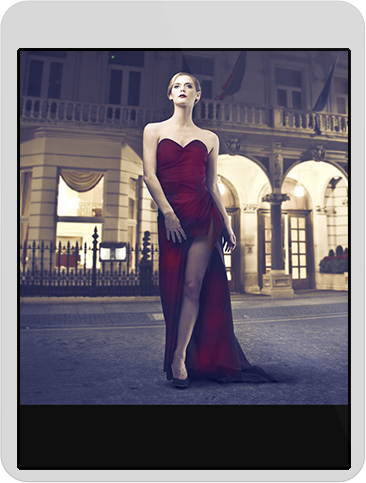
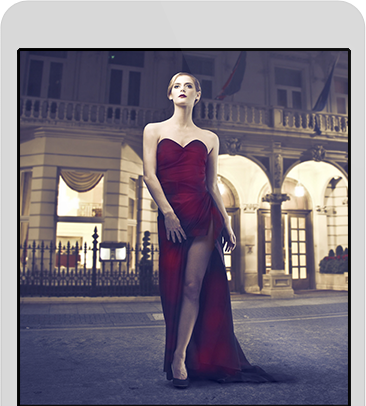
clients - hexagon

diff --git a/src/less/_clients.less b/src/less/_clients.less
@@ -1,0 +1,95 @@
+.clients {
+	height: 652px;
+	padding-top: 90px;
+	padding-bottom: 100px;
+	background-image: 
+	    linear-gradient(to bottom, rgba(0, 0, 0, 0.902) 0px, rgba(0, 0, 0, 0.902) 100%),
+	    url("../img/bg/clients.jpg");
+	background-size: cover;
+	background-repeat: no-repeat;
+	background-position: center;
+	background-color: rgba(0, 0, 0, 0.902);
+	text-align: center;
+}
+
+.reviews {
+	height: 300px;
+	background-color: #6fc;
+}
+
+.review__title {
+  font-family: 'Raleway', sans-serif;
+  font-size: 20px;
+  line-height: 1;
+  font-weight: 500;
+  color: #fff;
+  text-transform: uppercase;
+  margin-bottom: 50px;
+  // text-align: center;
+}
+
+.review__text {
+  font-family: 'Lato', sans-serif;
+  font-size: 16px;
+  line-height: 1.375;
+  color: #a4a4a4;
+  // text-align: center;
+  margin-bottom: 40px;
+}
+
+.review__text p {
+	margin-bottom: 20px;
+}
+
+.review__client-photo {
+	// overflow: hidden;
+}
+
+.hexagon {
+	position: relative;
+	width: 34px;
+	height: 57px;
+	margin: 20px;
+	background-color: #ff0036;
+	border: none;
+	transform: rotate(120deg);
+	margin-right: auto;
+	margin-left: auto;
+	// overflow: hidden;
+	// visibility: hidden;
+
+}
+
+.hexagon-layer-1 {
+	width: 100%;
+	height: 100%;
+	background-color: #ff0036;
+	border: none;
+	transform: rotate(-60deg);
+	// overflow: hidden;
+	// visibility: hidden;
+}
+
+.hexagon-layer-2 {
+	width: 100%;
+	height: 100%;
+	background-color: #ff0036;
+	border: none;
+	transform: rotate(-60deg);
+	// overflow: hidden;
+	// visibility: hidden;
+	
+	background-image: url("../img/clients/amr-srour.jpg");
+	background-size: auto;
+	background-repeat: no-repeat;
+	background-position: center;
+}
+
+// .about-card__icon img {
+//   position: absolute;
+//   top: 50%;
+//   left: 50%;
+//   -webkit-transform: translate(-50%, -50%);
+//   -ms-transform: translate(-50%, -50%);
+//   transform: translate(-50%, -50%);
+// }

diff --git a/src/less/_base.less b/src/less/_base.less
@@ -79,6 +79,10 @@ p {
 	margin-bottom: 40px;
 }
 
+.mb-95 {
+	margin-bottom: 95px;
+}
+
 .mb-110 {
 	margin-bottom: 110px;
 }
@@ -93,21 +97,23 @@ p {
 	// margin-bottom: 40px;
 }
 
-.title-red {
+.title--red {
 	color: #FF0036;
 }
 
-.title-black {
+.title--black {
 	color: #262626;
 }
 
 .button {
+	display: inline-block;
 	background-color: #ff0036;
 	font-family: 'Raleway', sans-serif;
 	font-weight: 500;
 	font-size: 20px;
 	color: #fff;
 	text-transform: uppercase;
+	text-decoration: none;
 	line-height: 1;
 	text-align: center;
 	padding: 17px 35px;
@@ -116,6 +122,19 @@ p {
 
 .button--black {
 	background-color: #131313;
+}
+
+.button--gray {
+  background-color: #393939;
+}
+
+.button--features {
+	position: absolute;
+	bottom: 73px;
+	left: 50%;
+	transform: translate(-50%);
+	margin-right: 0;
+	z-index: 4;
 }
 
 .scrollbar {
@@ -136,7 +155,6 @@ p {
 		content: url('../img/icons/hexagon.svg');
 		width: 21px;
 		height: 19px;
-		
 	}
 }
 

diff --git a/src/less/_features.less b/src/less/_features.less
@@ -79,11 +79,44 @@
 }
 
 .features__mockups {
-	// width: 372px;
-	height: 488px;
+	position: relative;
+	height: 585px;
 	padding: 3px;
+
+	&:before {
+		position: absolute;
+		bottom: 0;
+		left: 50%;
+		content: "";
+		width: 474px;
+		height: 412px;
+		z-index: 1;
+		background: url("../img/features/hexagon-background.svg") center bottom no-repeat;
+		transform: translate(-50%);
+	}
+	
+	&:after {
+		position: absolute;
+		bottom: 0;
+		left: 50%;
+		content: "";
+		width: 473px;
+		height: 205.5px;
+		z-index: 3;
+		background: url("../img/features/hexagon-bottom.svg") center bottom no-repeat;
+		transform: translate(-50%);
+	}
+}
+
+.features__phone {
+	position: absolute;
+	top: 0;
+	left: 50%;
+	transform: translate(-50%);
+	width: 366px;
+	height: 406px;
 	box-shadow: 0 0 76px rgba(0, 0, 0, 0.15);
 	background-color: #d8d8d8;
-	background-image: linear-gradient(to top, #c7c7c7 0%, #e7e7e7 100%);
 	border-radius: 31px;
+	z-index: 2;
 }

diff --git a/src/less/main.less b/src/less/main.less
@@ -5,6 +5,7 @@
 @import "_about.less";
 @import "_portfolio.less";
 @import "_features.less";
+@import "_clients.less";
 
 // font-family: 'Lato', sans-serif;
 // font-family: 'Raleway', sans-serif;
